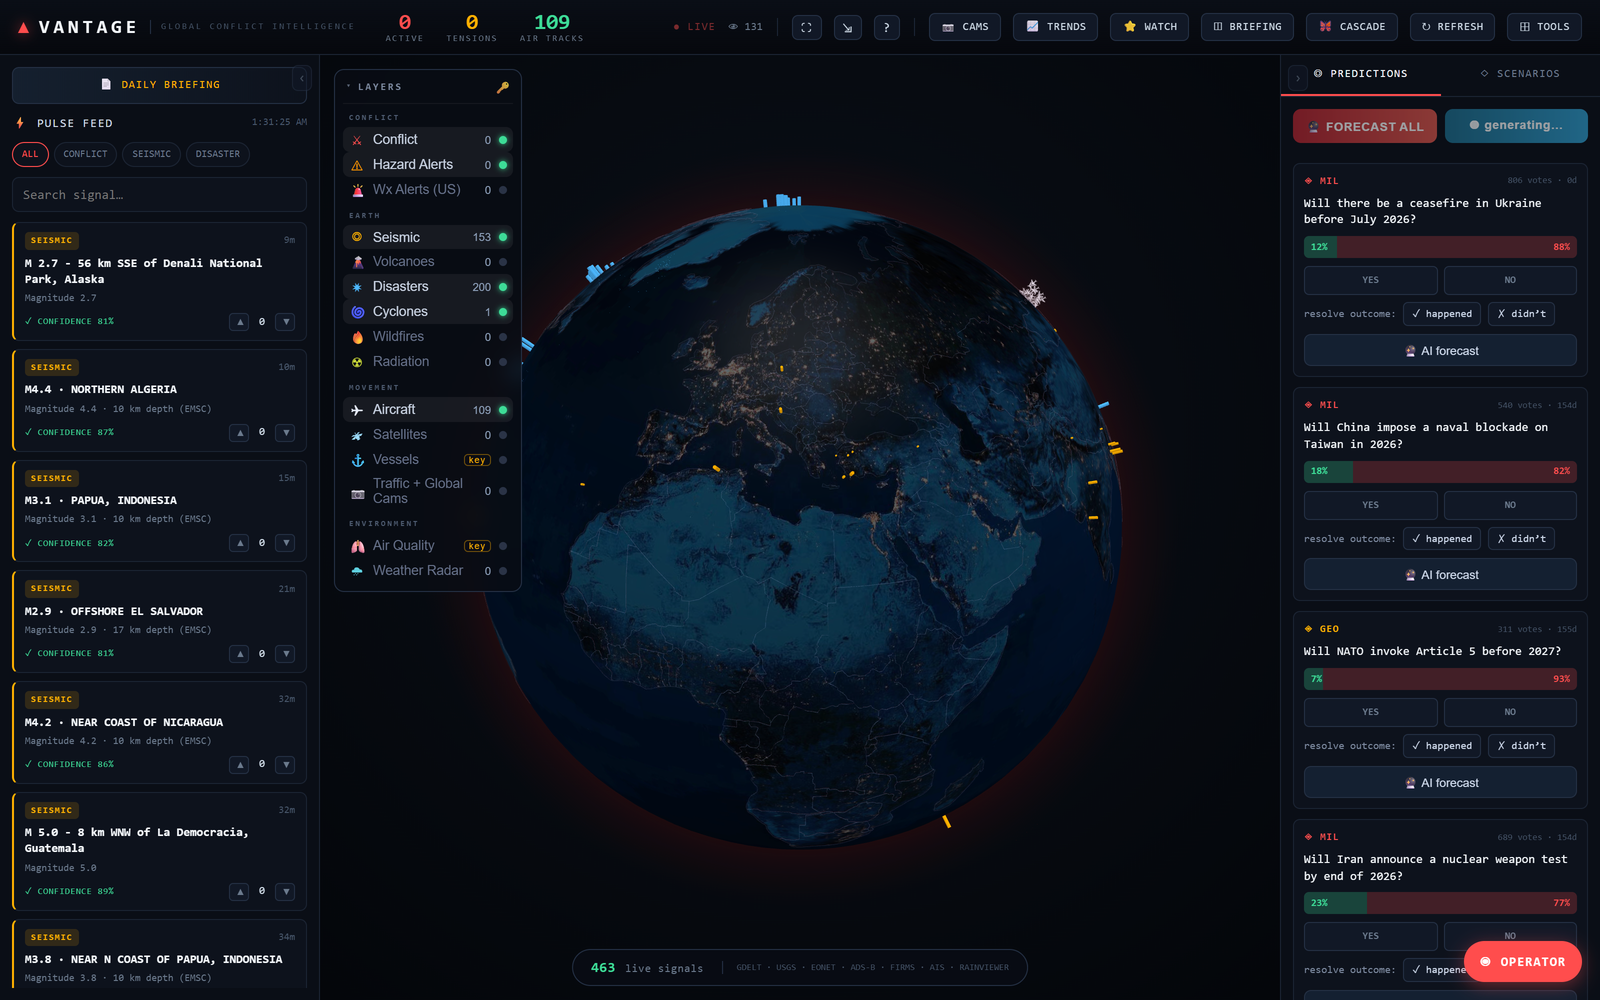
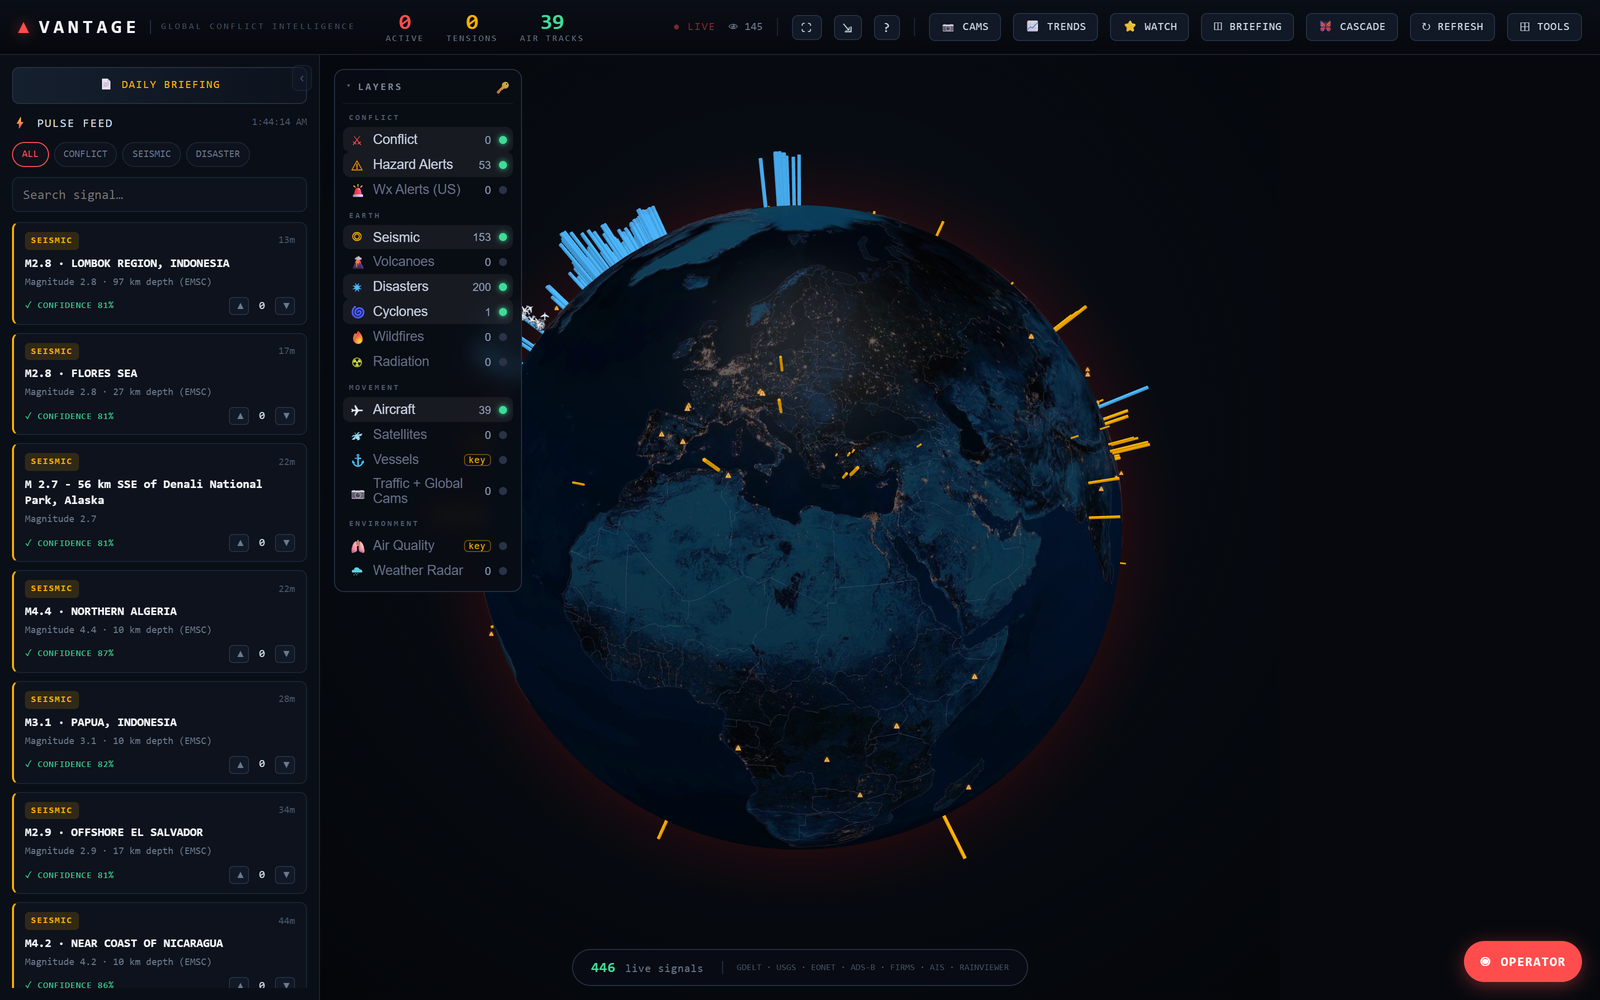
Vantage: crop the forecast rail out of the proof shot
Hides .rail-host.right before capture so the globe reflows into the freed
space rather than leaving a dead column. Recapture also caught the hazard
layer live (53) instead of rate-limited.

diff --git a/vantage/index.html b/vantage/index.html
@@ -76,8 +76,8 @@
       <span class="band-rule" aria-hidden="true"></span>
       <span class="band-count">LIVE CAPTURE · UNSTAGED</span>
     </div>
-    <img class="proof" src="assets/globe.png" alt="Vantage running: a WebGL globe showing night-side city lights and live aircraft tracks, a pulse feed of real seismic events with EMSC magnitudes and confidence scores, the layer panel with live counts, and a forecast panel — 463 live signals across GDELT, USGS, EONET, ADS-B and RainViewer">
-    <p class="note">Real session, nothing staged: 463 live signals — 153 seismic, 200 disaster, 109 aircraft tracks. Layers reading zero were rate-limited upstream at capture time, which is exactly the degradation described below.</p>
+    <img class="proof" src="assets/globe.png" alt="Vantage running: a WebGL globe showing night-side city lights, live aircraft tracks and seismic markers, beside a pulse feed of real earthquakes with EMSC magnitudes and the layer panel with live counts — 446 live signals across GDELT, USGS, EONET, ADS-B and RainViewer">
+    <p class="note">Real session, nothing staged: 446 live signals — 153 seismic, 200 disaster, 53 hazard alerts, 39 aircraft tracks. Layers reading zero were rate-limited upstream at capture time, which is exactly the degradation described below.</p>
   </div>
 </section>
 
